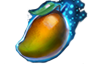
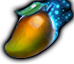
Mango essence
- http://puu.sh/lV89C/8f970c8d8f.jpg

diff --git a/content/dota_addons/element_td/panorama/styles/custom_game/resources.css b/content/dota_addons/element_td/panorama/styles/custom_game/resources.css
@@ -190,7 +190,7 @@
 
 #PureEssenceText
 {
-    color: white;
+    color: DeepSkyBlue;
     font-size: 20px;
     font-family: Radiance;
     font-weight: bold;
@@ -205,9 +205,10 @@
 
 #PureEssenceIcon 
 {   
-    width:30px; 
-    height:30px; 
-    background-image: url("file://{resources}/images/custom_game/resources/pure_essence.png"); 
+    margin-top: -3px;
+    width:36px; 
+    height:32px; 
+    background-image: url("file://{resources}/images/custom_game/resources/mango.png");
     background-size: 100% 100%;
 }
 
